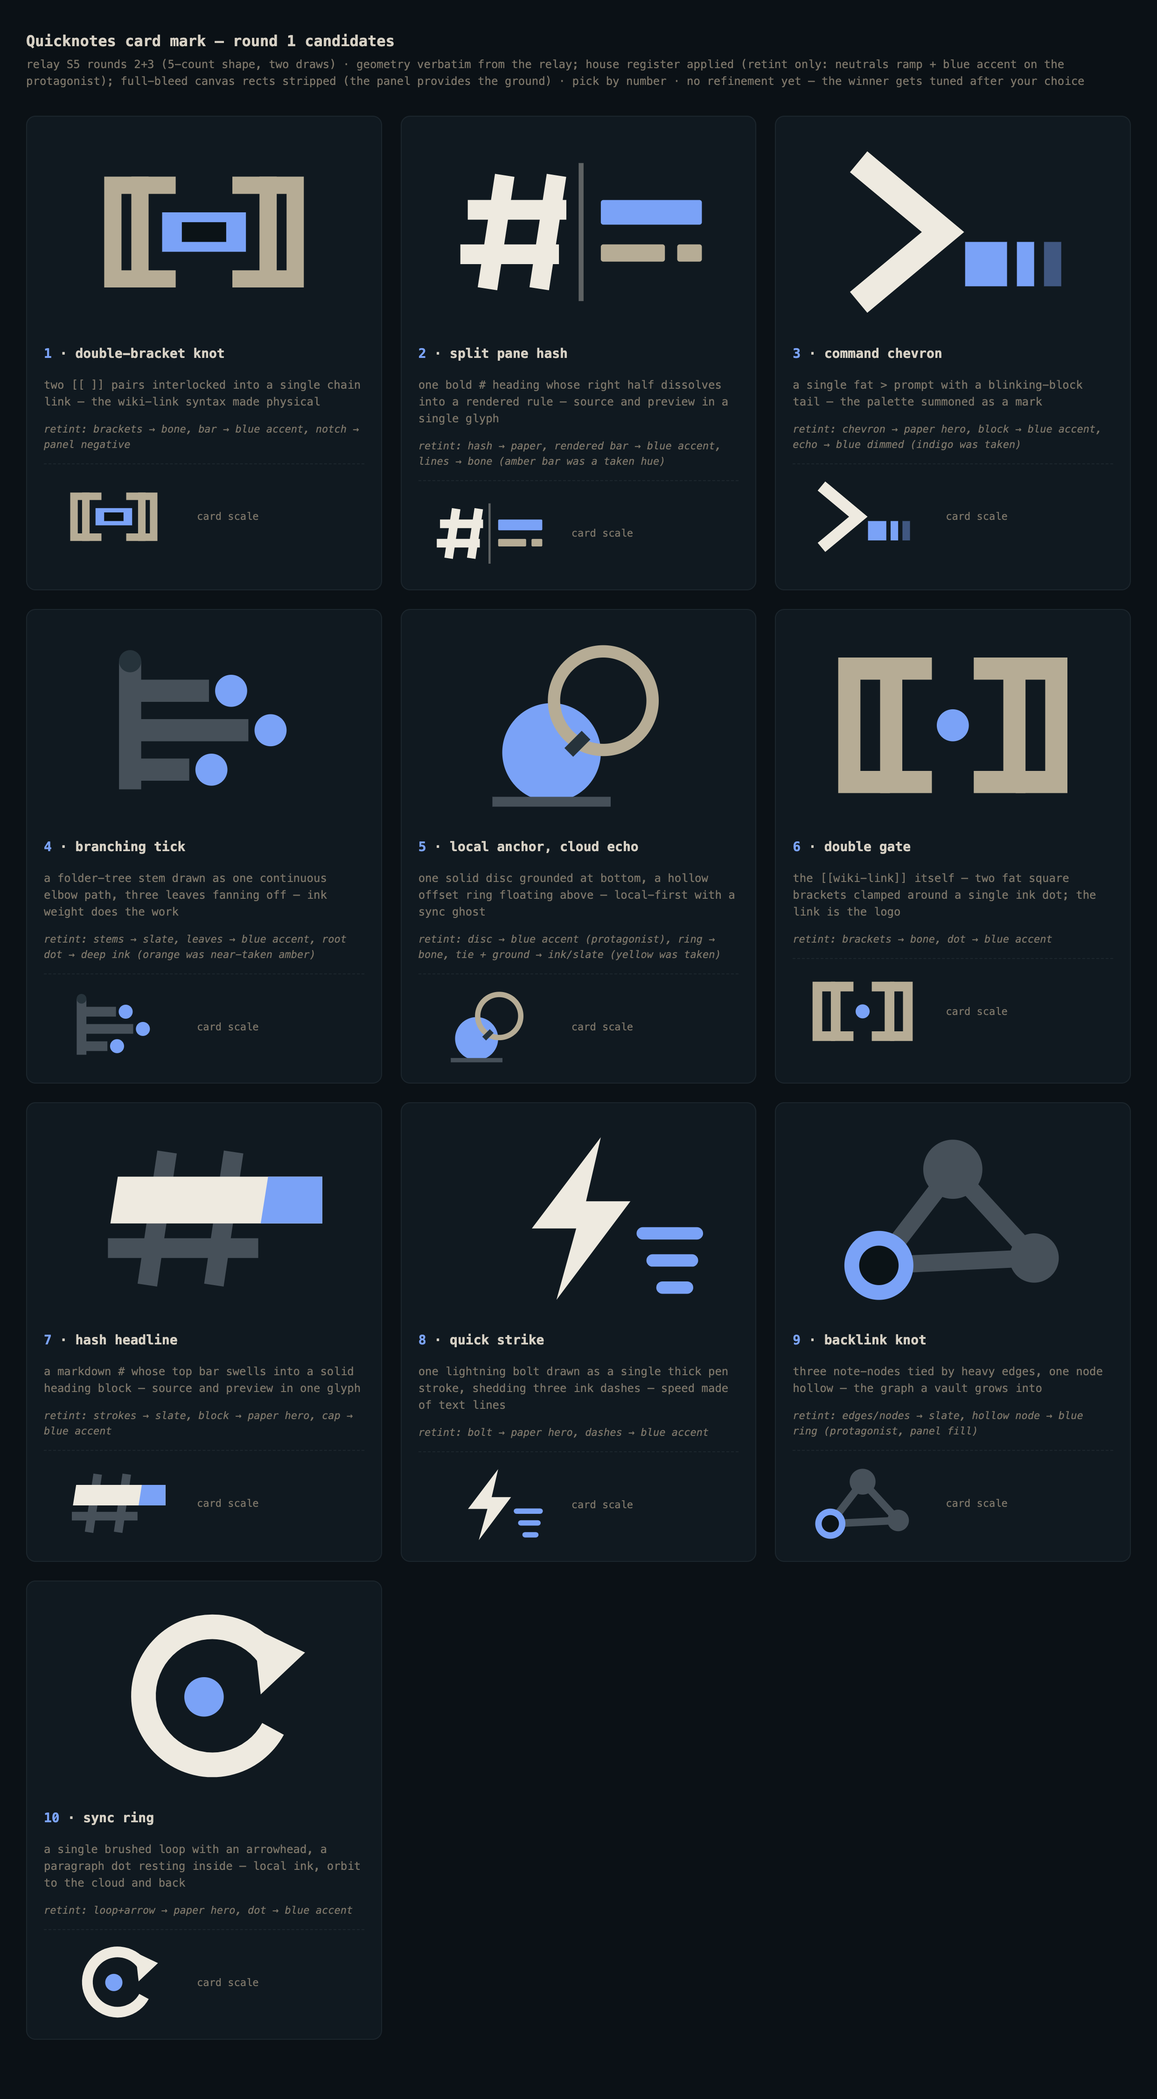
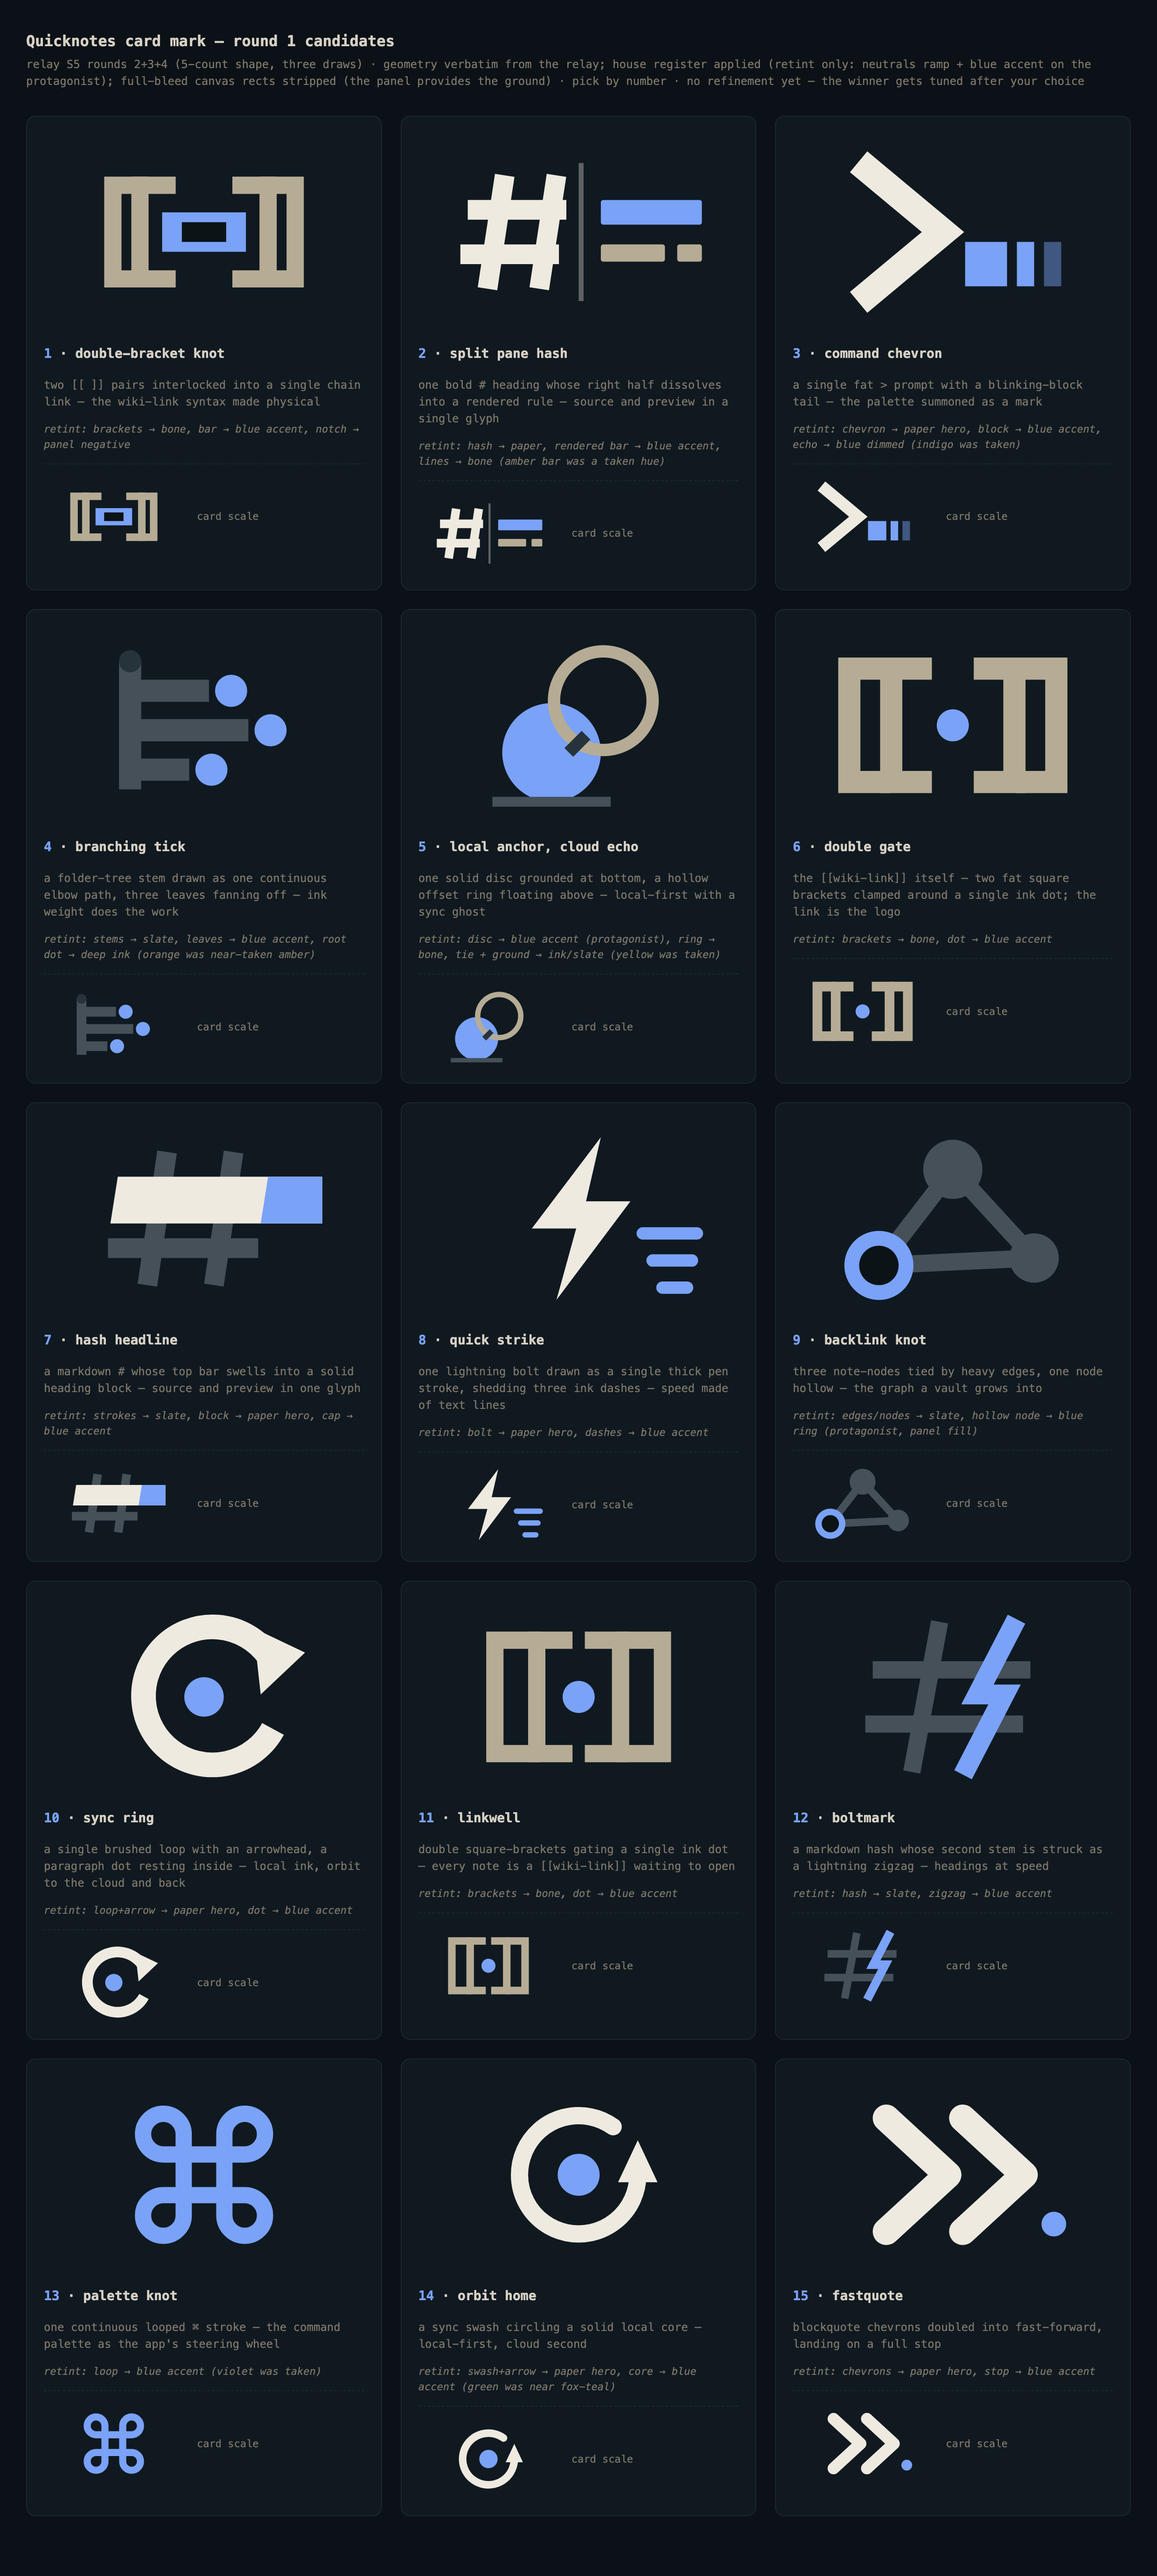
quicknotes card mark: R001 addendum 2 — third relay draw (candidates 11-15) added to /quicknotes-mark/; cross-draw skeleton overlap disclosed

diff --git a/portfolio/projects/quicknotes/.agent/iterations/design/card-mark-redesign/artifacts/R001/card-mark-variants.html b/portfolio/projects/quicknotes/.agent/iterations/design/card-mark-redesign/artifacts/R001/card-mark-variants.html
@@ -46,7 +46,7 @@
 </head>
 <body>
 <h1>Quicknotes card mark — round 1 candidates</h1>
-<p class="sub">relay S5 rounds 2+3 (5-count shape, two draws) · geometry verbatim from the relay; house register applied (retint only: neutrals ramp + blue accent on the protagonist); full-bleed canvas rects stripped (the panel provides the ground) · pick by number · no refinement yet — the winner gets tuned after your choice</p>
+<p class="sub">relay S5 rounds 2+3+4 (5-count shape, three draws) · geometry verbatim from the relay; house register applied (retint only: neutrals ramp + blue accent on the protagonist); full-bleed canvas rects stripped (the panel provides the ground) · pick by number · no refinement yet — the winner gets tuned after your choice</p>
 
 <div class="grid">
 
@@ -250,6 +250,101 @@
     <p class="tint">retint: loop+arrow → paper hero, dot → blue accent</p>
     <div class="small-strip">
       <svg viewBox="0 0 260 160" aria-hidden="true"><path d="M182 46 A56 56 0 1 0 186 106" fill="none" stroke="var(--paper)" stroke-width="20" stroke-linecap="butt"/><path d="M170 24 L212 44 L176 78 Z" fill="var(--paper)"/><circle cx="130" cy="80" r="16" fill="var(--blue)"/></svg>
+      <span class="small-label">card scale</span>
+    </div>
+  </div>
+</div>
+
+<div class="tile" id="v11">
+  <svg viewBox="0 0 260 160" aria-label="variant 11, linkwell">
+    <g fill="none" stroke="var(--bone)" stroke-width="14" stroke-linecap="square">
+      <path d="M92 34 H62 V126 H92"/>
+      <path d="M118 34 H96 V126 H118"/>
+      <path d="M168 34 H198 V126 H168"/>
+      <path d="M142 34 H164 V126 H142"/>
+    </g>
+    <circle cx="130" cy="80" r="13" fill="var(--blue)"/>
+  </svg>
+  <div class="meta">
+    <p class="name"><b>11</b> · linkwell</p>
+    <p class="desc">double square-brackets gating a single ink dot — every note is a [[wiki-link]] waiting to open</p>
+    <p class="tint">retint: brackets → bone, dot → blue accent</p>
+    <div class="small-strip">
+      <svg viewBox="0 0 260 160" aria-hidden="true"><g fill="none" stroke="var(--bone)" stroke-width="14" stroke-linecap="square"><path d="M92 34 H62 V126 H92"/><path d="M118 34 H96 V126 H118"/><path d="M168 34 H198 V126 H168"/><path d="M142 34 H164 V126 H142"/></g><circle cx="130" cy="80" r="13" fill="var(--blue)"/></svg>
+      <span class="small-label">card scale</span>
+    </div>
+  </div>
+</div>
+
+<div class="tile" id="v12">
+  <svg viewBox="0 0 260 160" aria-label="variant 12, boltmark">
+    <g fill="none" stroke="var(--slate)" stroke-width="14" stroke-linecap="square">
+      <path d="M72 58 H186"/>
+      <path d="M66 102 H180"/>
+      <path d="M118 26 L98 134"/>
+    </g>
+    <path d="M178 24 L150 78 L172 78 L142 136" fill="none" stroke="var(--blue)" stroke-width="16" stroke-linejoin="miter" stroke-linecap="square"/>
+  </svg>
+  <div class="meta">
+    <p class="name"><b>12</b> · boltmark</p>
+    <p class="desc">a markdown hash whose second stem is struck as a lightning zigzag — headings at speed</p>
+    <p class="tint">retint: hash → slate, zigzag → blue accent</p>
+    <div class="small-strip">
+      <svg viewBox="0 0 260 160" aria-hidden="true"><g fill="none" stroke="var(--slate)" stroke-width="14" stroke-linecap="square"><path d="M72 58 H186"/><path d="M66 102 H180"/><path d="M118 26 L98 134"/></g><path d="M178 24 L150 78 L172 78 L142 136" fill="none" stroke="var(--blue)" stroke-width="16" stroke-linejoin="miter" stroke-linecap="square"/></svg>
+      <span class="small-label">card scale</span>
+    </div>
+  </div>
+</div>
+
+<div class="tile" id="v13">
+  <svg viewBox="0 0 260 160" aria-label="variant 13, palette knot">
+    <g transform="translate(64,14) scale(5.5)">
+      <path d="M15 6v12a3 3 0 1 0 3-3H6a3 3 0 1 0 3 3V6a3 3 0 1 0-3 3h12a3 3 0 1 0-3-3"
+            fill="none" stroke="var(--blue)" stroke-width="2.4" stroke-linecap="round" stroke-linejoin="round"/>
+    </g>
+  </svg>
+  <div class="meta">
+    <p class="name"><b>13</b> · palette knot</p>
+    <p class="desc">one continuous looped ⌘ stroke — the command palette as the app's steering wheel</p>
+    <p class="tint">retint: loop → blue accent (violet was taken)</p>
+    <div class="small-strip">
+      <svg viewBox="0 0 260 160" aria-hidden="true"><g transform="translate(64,14) scale(5.5)"><path d="M15 6v12a3 3 0 1 0 3-3H6a3 3 0 1 0 3 3V6a3 3 0 1 0-3 3h12a3 3 0 1 0-3-3" fill="none" stroke="var(--blue)" stroke-width="2.4" stroke-linecap="round" stroke-linejoin="round"/></g></svg>
+      <span class="small-label">card scale</span>
+    </div>
+  </div>
+</div>
+
+<div class="tile" id="v14">
+  <svg viewBox="0 0 260 160" aria-label="variant 14, orbit home">
+    <path d="M158 41 A48 48 0 1 0 178 80" fill="none" stroke="var(--paper)" stroke-width="14" stroke-linecap="round"/>
+    <polygon points="178,52 194,86 162,86" fill="var(--paper)"/>
+    <circle cx="130" cy="80" r="17" fill="var(--blue)"/>
+  </svg>
+  <div class="meta">
+    <p class="name"><b>14</b> · orbit home</p>
+    <p class="desc">a sync swash circling a solid local core — local-first, cloud second</p>
+    <p class="tint">retint: swash+arrow → paper hero, core → blue accent (green was near fox-teal)</p>
+    <div class="small-strip">
+      <svg viewBox="0 0 260 160" aria-hidden="true"><path d="M158 41 A48 48 0 1 0 178 80" fill="none" stroke="var(--paper)" stroke-width="14" stroke-linecap="round"/><polygon points="178,52 194,86 162,86" fill="var(--paper)"/><circle cx="130" cy="80" r="17" fill="var(--blue)"/></svg>
+      <span class="small-label">card scale</span>
+    </div>
+  </div>
+</div>
+
+<div class="tile" id="v15">
+  <svg viewBox="0 0 260 160" aria-label="variant 15, fastquote">
+    <g fill="none" stroke="var(--paper)" stroke-width="22" stroke-linecap="round" stroke-linejoin="round">
+      <path d="M76 34 L126 80 L76 126"/>
+      <path d="M138 34 L188 80 L138 126"/>
+    </g>
+    <circle cx="212" cy="120" r="10" fill="var(--blue)"/>
+  </svg>
+  <div class="meta">
+    <p class="name"><b>15</b> · fastquote</p>
+    <p class="desc">blockquote chevrons doubled into fast-forward, landing on a full stop</p>
+    <p class="tint">retint: chevrons → paper hero, stop → blue accent</p>
+    <div class="small-strip">
+      <svg viewBox="0 0 260 160" aria-hidden="true"><g fill="none" stroke="var(--paper)" stroke-width="22" stroke-linecap="round" stroke-linejoin="round"><path d="M76 34 L126 80 L76 126"/><path d="M138 34 L188 80 L138 126"/></g><circle cx="212" cy="120" r="10" fill="var(--blue)"/></svg>
       <span class="small-label">card scale</span>
     </div>
   </div>

diff --git a/portfolio/shell/public/quicknotes-mark/index.html b/portfolio/shell/public/quicknotes-mark/index.html
@@ -46,7 +46,7 @@
 </head>
 <body>
 <h1>Quicknotes card mark — round 1 candidates</h1>
-<p class="sub">relay S5 rounds 2+3 (5-count shape, two draws) · geometry verbatim from the relay; house register applied (retint only: neutrals ramp + blue accent on the protagonist); full-bleed canvas rects stripped (the panel provides the ground) · pick by number · no refinement yet — the winner gets tuned after your choice</p>
+<p class="sub">relay S5 rounds 2+3+4 (5-count shape, three draws) · geometry verbatim from the relay; house register applied (retint only: neutrals ramp + blue accent on the protagonist); full-bleed canvas rects stripped (the panel provides the ground) · pick by number · no refinement yet — the winner gets tuned after your choice</p>
 
 <div class="grid">
 
@@ -250,6 +250,101 @@
     <p class="tint">retint: loop+arrow → paper hero, dot → blue accent</p>
     <div class="small-strip">
       <svg viewBox="0 0 260 160" aria-hidden="true"><path d="M182 46 A56 56 0 1 0 186 106" fill="none" stroke="var(--paper)" stroke-width="20" stroke-linecap="butt"/><path d="M170 24 L212 44 L176 78 Z" fill="var(--paper)"/><circle cx="130" cy="80" r="16" fill="var(--blue)"/></svg>
+      <span class="small-label">card scale</span>
+    </div>
+  </div>
+</div>
+
+<div class="tile" id="v11">
+  <svg viewBox="0 0 260 160" aria-label="variant 11, linkwell">
+    <g fill="none" stroke="var(--bone)" stroke-width="14" stroke-linecap="square">
+      <path d="M92 34 H62 V126 H92"/>
+      <path d="M118 34 H96 V126 H118"/>
+      <path d="M168 34 H198 V126 H168"/>
+      <path d="M142 34 H164 V126 H142"/>
+    </g>
+    <circle cx="130" cy="80" r="13" fill="var(--blue)"/>
+  </svg>
+  <div class="meta">
+    <p class="name"><b>11</b> · linkwell</p>
+    <p class="desc">double square-brackets gating a single ink dot — every note is a [[wiki-link]] waiting to open</p>
+    <p class="tint">retint: brackets → bone, dot → blue accent</p>
+    <div class="small-strip">
+      <svg viewBox="0 0 260 160" aria-hidden="true"><g fill="none" stroke="var(--bone)" stroke-width="14" stroke-linecap="square"><path d="M92 34 H62 V126 H92"/><path d="M118 34 H96 V126 H118"/><path d="M168 34 H198 V126 H168"/><path d="M142 34 H164 V126 H142"/></g><circle cx="130" cy="80" r="13" fill="var(--blue)"/></svg>
+      <span class="small-label">card scale</span>
+    </div>
+  </div>
+</div>
+
+<div class="tile" id="v12">
+  <svg viewBox="0 0 260 160" aria-label="variant 12, boltmark">
+    <g fill="none" stroke="var(--slate)" stroke-width="14" stroke-linecap="square">
+      <path d="M72 58 H186"/>
+      <path d="M66 102 H180"/>
+      <path d="M118 26 L98 134"/>
+    </g>
+    <path d="M178 24 L150 78 L172 78 L142 136" fill="none" stroke="var(--blue)" stroke-width="16" stroke-linejoin="miter" stroke-linecap="square"/>
+  </svg>
+  <div class="meta">
+    <p class="name"><b>12</b> · boltmark</p>
+    <p class="desc">a markdown hash whose second stem is struck as a lightning zigzag — headings at speed</p>
+    <p class="tint">retint: hash → slate, zigzag → blue accent</p>
+    <div class="small-strip">
+      <svg viewBox="0 0 260 160" aria-hidden="true"><g fill="none" stroke="var(--slate)" stroke-width="14" stroke-linecap="square"><path d="M72 58 H186"/><path d="M66 102 H180"/><path d="M118 26 L98 134"/></g><path d="M178 24 L150 78 L172 78 L142 136" fill="none" stroke="var(--blue)" stroke-width="16" stroke-linejoin="miter" stroke-linecap="square"/></svg>
+      <span class="small-label">card scale</span>
+    </div>
+  </div>
+</div>
+
+<div class="tile" id="v13">
+  <svg viewBox="0 0 260 160" aria-label="variant 13, palette knot">
+    <g transform="translate(64,14) scale(5.5)">
+      <path d="M15 6v12a3 3 0 1 0 3-3H6a3 3 0 1 0 3 3V6a3 3 0 1 0-3 3h12a3 3 0 1 0-3-3"
+            fill="none" stroke="var(--blue)" stroke-width="2.4" stroke-linecap="round" stroke-linejoin="round"/>
+    </g>
+  </svg>
+  <div class="meta">
+    <p class="name"><b>13</b> · palette knot</p>
+    <p class="desc">one continuous looped ⌘ stroke — the command palette as the app's steering wheel</p>
+    <p class="tint">retint: loop → blue accent (violet was taken)</p>
+    <div class="small-strip">
+      <svg viewBox="0 0 260 160" aria-hidden="true"><g transform="translate(64,14) scale(5.5)"><path d="M15 6v12a3 3 0 1 0 3-3H6a3 3 0 1 0 3 3V6a3 3 0 1 0-3 3h12a3 3 0 1 0-3-3" fill="none" stroke="var(--blue)" stroke-width="2.4" stroke-linecap="round" stroke-linejoin="round"/></g></svg>
+      <span class="small-label">card scale</span>
+    </div>
+  </div>
+</div>
+
+<div class="tile" id="v14">
+  <svg viewBox="0 0 260 160" aria-label="variant 14, orbit home">
+    <path d="M158 41 A48 48 0 1 0 178 80" fill="none" stroke="var(--paper)" stroke-width="14" stroke-linecap="round"/>
+    <polygon points="178,52 194,86 162,86" fill="var(--paper)"/>
+    <circle cx="130" cy="80" r="17" fill="var(--blue)"/>
+  </svg>
+  <div class="meta">
+    <p class="name"><b>14</b> · orbit home</p>
+    <p class="desc">a sync swash circling a solid local core — local-first, cloud second</p>
+    <p class="tint">retint: swash+arrow → paper hero, core → blue accent (green was near fox-teal)</p>
+    <div class="small-strip">
+      <svg viewBox="0 0 260 160" aria-hidden="true"><path d="M158 41 A48 48 0 1 0 178 80" fill="none" stroke="var(--paper)" stroke-width="14" stroke-linecap="round"/><polygon points="178,52 194,86 162,86" fill="var(--paper)"/><circle cx="130" cy="80" r="17" fill="var(--blue)"/></svg>
+      <span class="small-label">card scale</span>
+    </div>
+  </div>
+</div>
+
+<div class="tile" id="v15">
+  <svg viewBox="0 0 260 160" aria-label="variant 15, fastquote">
+    <g fill="none" stroke="var(--paper)" stroke-width="22" stroke-linecap="round" stroke-linejoin="round">
+      <path d="M76 34 L126 80 L76 126"/>
+      <path d="M138 34 L188 80 L138 126"/>
+    </g>
+    <circle cx="212" cy="120" r="10" fill="var(--blue)"/>
+  </svg>
+  <div class="meta">
+    <p class="name"><b>15</b> · fastquote</p>
+    <p class="desc">blockquote chevrons doubled into fast-forward, landing on a full stop</p>
+    <p class="tint">retint: chevrons → paper hero, stop → blue accent</p>
+    <div class="small-strip">
+      <svg viewBox="0 0 260 160" aria-hidden="true"><g fill="none" stroke="var(--paper)" stroke-width="22" stroke-linecap="round" stroke-linejoin="round"><path d="M76 34 L126 80 L76 126"/><path d="M138 34 L188 80 L138 126"/></g><circle cx="212" cy="120" r="10" fill="var(--blue)"/></svg>
       <span class="small-label">card scale</span>
     </div>
   </div>

diff --git a/portfolio/projects/quicknotes/.agent/iterations/design/card-mark-redesign/ledger.md b/portfolio/projects/quicknotes/.agent/iterations/design/card-mark-redesign/ledger.md
@@ -88,3 +88,13 @@ the only mark without one).
   8 quick strike · 9 backlink knot · 10 sync ring
 - After: artifacts/R001/variants-preview.png (10 tiles) re-shot; live page
   updated.
+
+### R001 addendum 2 (2026-09-23, same session)
+- Third relay draw appended as candidates 11–15, same rules: 11 linkwell ·
+  12 boltmark · 13 palette knot · 14 orbit home · 15 fastquote (this draw
+  arrived with no bg rects — contract learned).
+- Cross-draw skeleton overlap now visible on the page: brackets ×3 (1, 6,
+  11), hash ×3 (2, 7, 12), sync-orbit ×3 (5, 10, 14). Disclosed as-is —
+  owner picks from the full 15.
+- After: artifacts/R001/variants-preview.png (15 tiles) re-shot; live page
+  updated.
